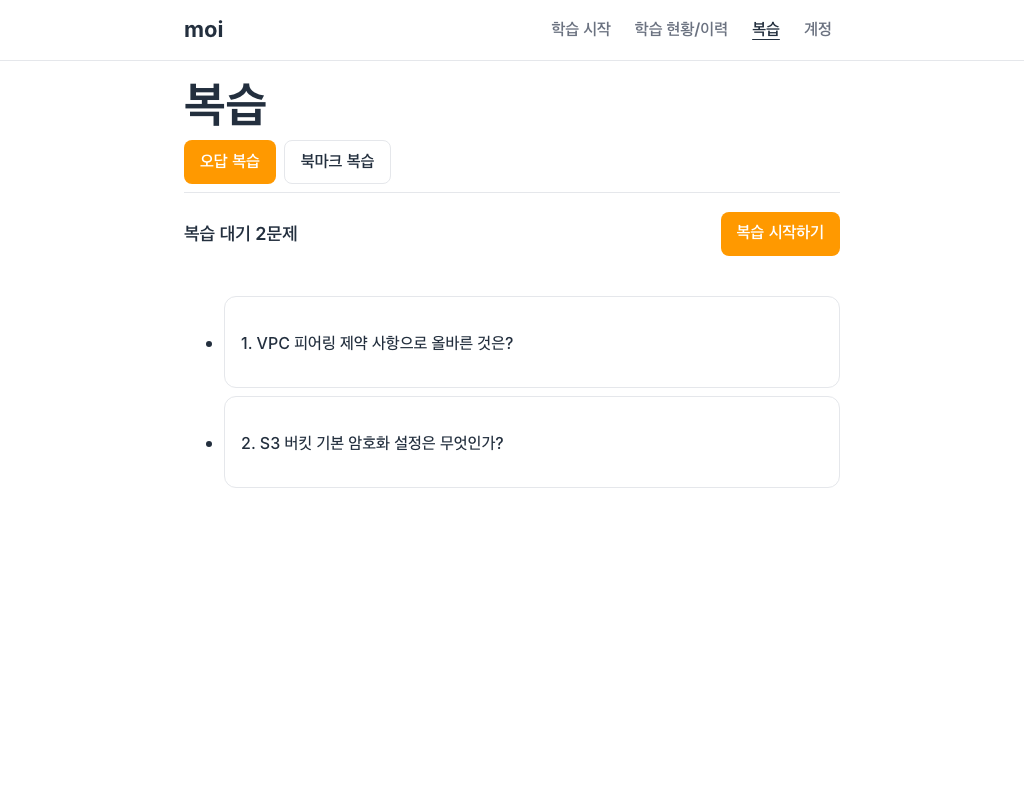
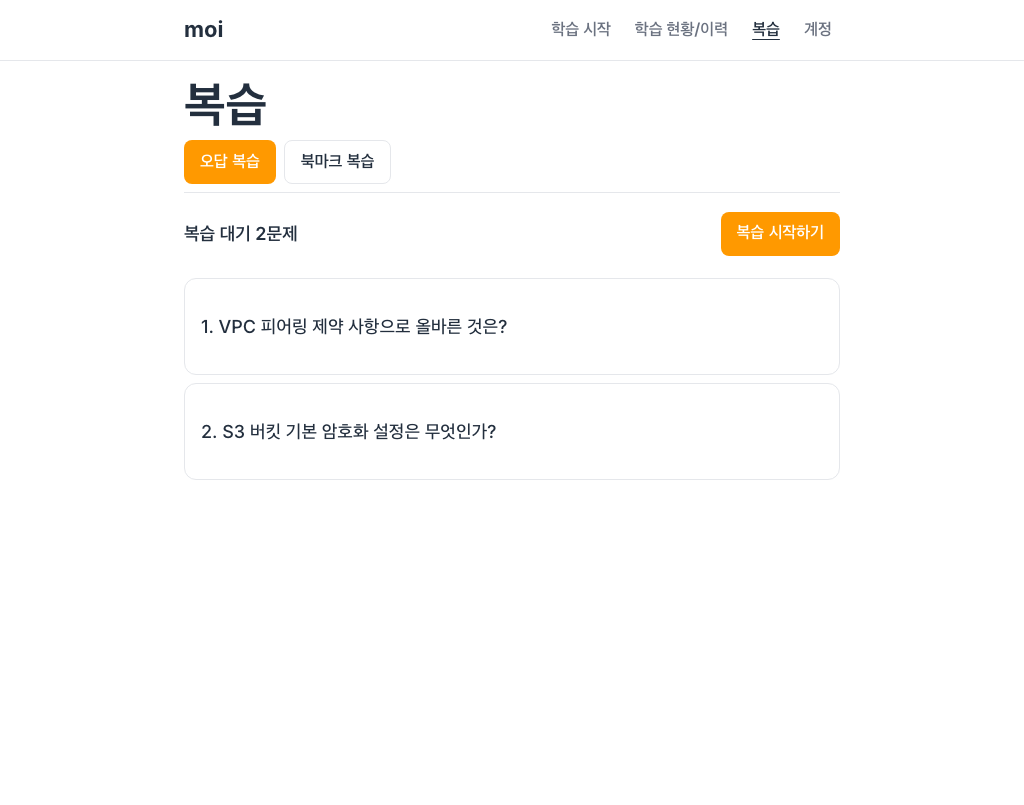
fix: 복습 목록 불릿 제거·이력 링크 색·stem 18px (#182)

Changed region(s): [[0.25, 0.4658, 0.8125, 0.4969], [0.2188, 0.3727, 0.5, 0.4348], [0.1875, 0.528, 0.5, 0.559]]

diff --git a/src/ui/review/ReviewCandidates.tsx b/src/ui/review/ReviewCandidates.tsx
@@ -68,10 +68,10 @@ export function ReviewCandidates({
             {copy.review.startAction}
           </Button>
         </div>
-        <ul className="flex flex-col gap-2">
+        <ul className="m-0 flex list-none flex-col gap-2 p-0">
           {data.items.map((item, idx) => (
             <li key={item.questionId} className="rounded-lg border border-border bg-card p-4 text-card-foreground">
-              <p className="text-sm font-medium">
+              <p className="text-base font-medium">
                 {idx + 1}. {item.stem}
               </p>
             </li>

diff --git a/src/ui/styles.css b/src/ui/styles.css
@@ -232,6 +232,8 @@ pre,
   background: var(--moi-color-white);
   border: 1px solid var(--moi-color-border);
   border-radius: var(--moi-radius-sm);
+  color: var(--moi-color-ink);
+  text-decoration: none;
 }
 .moi-study-open:focus-visible,
 .moi-study-link:focus-visible {
